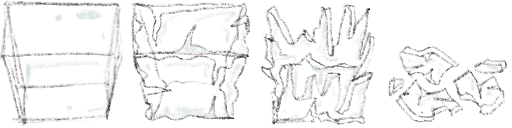
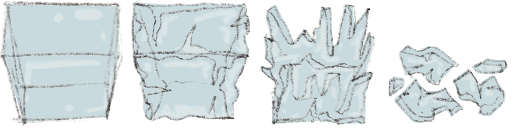
Implement new Breakable texture for glass and wood

diff --git a/core/src/com/redpacts/frostpurge/game/models/LevelModel.java b/core/src/com/redpacts/frostpurge/game/models/LevelModel.java
@@ -159,7 +159,7 @@ public class LevelModel {
                 breakables.insert(breakables.size, new BreakableTile(glassBox, new Vector2(x,y), 1,  base, 1, 4, 4));
                 break;
             case "wood":
-                breakables.insert(breakables.size, new BreakableTile(woodBox, new Vector2(x,y), 1,  base, 1, 2, 2));
+                breakables.insert(breakables.size, new BreakableTile(woodBox, new Vector2(x,y), 1,  base, 1, 4, 4));
                 break;
         }
 //        extraLayer[y / 64][x / 64] = new BreakableTile(texture, new Vector2(x,y), 1,  base, 1, 4, 4);
